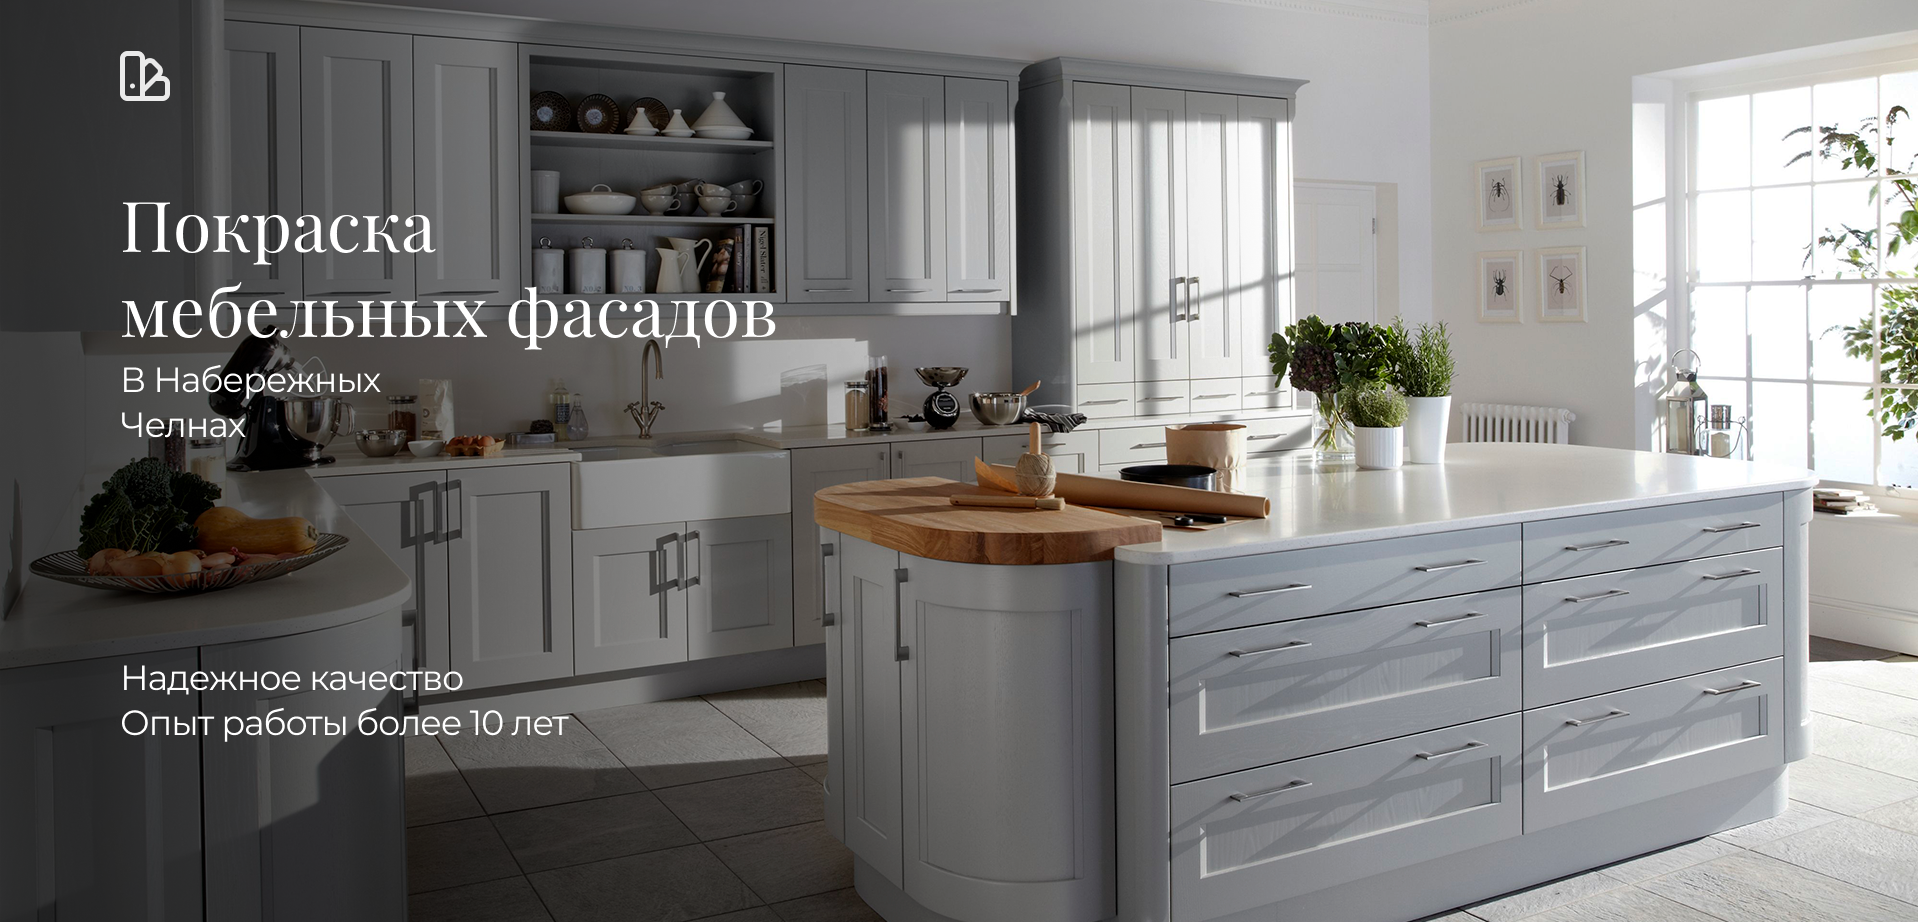
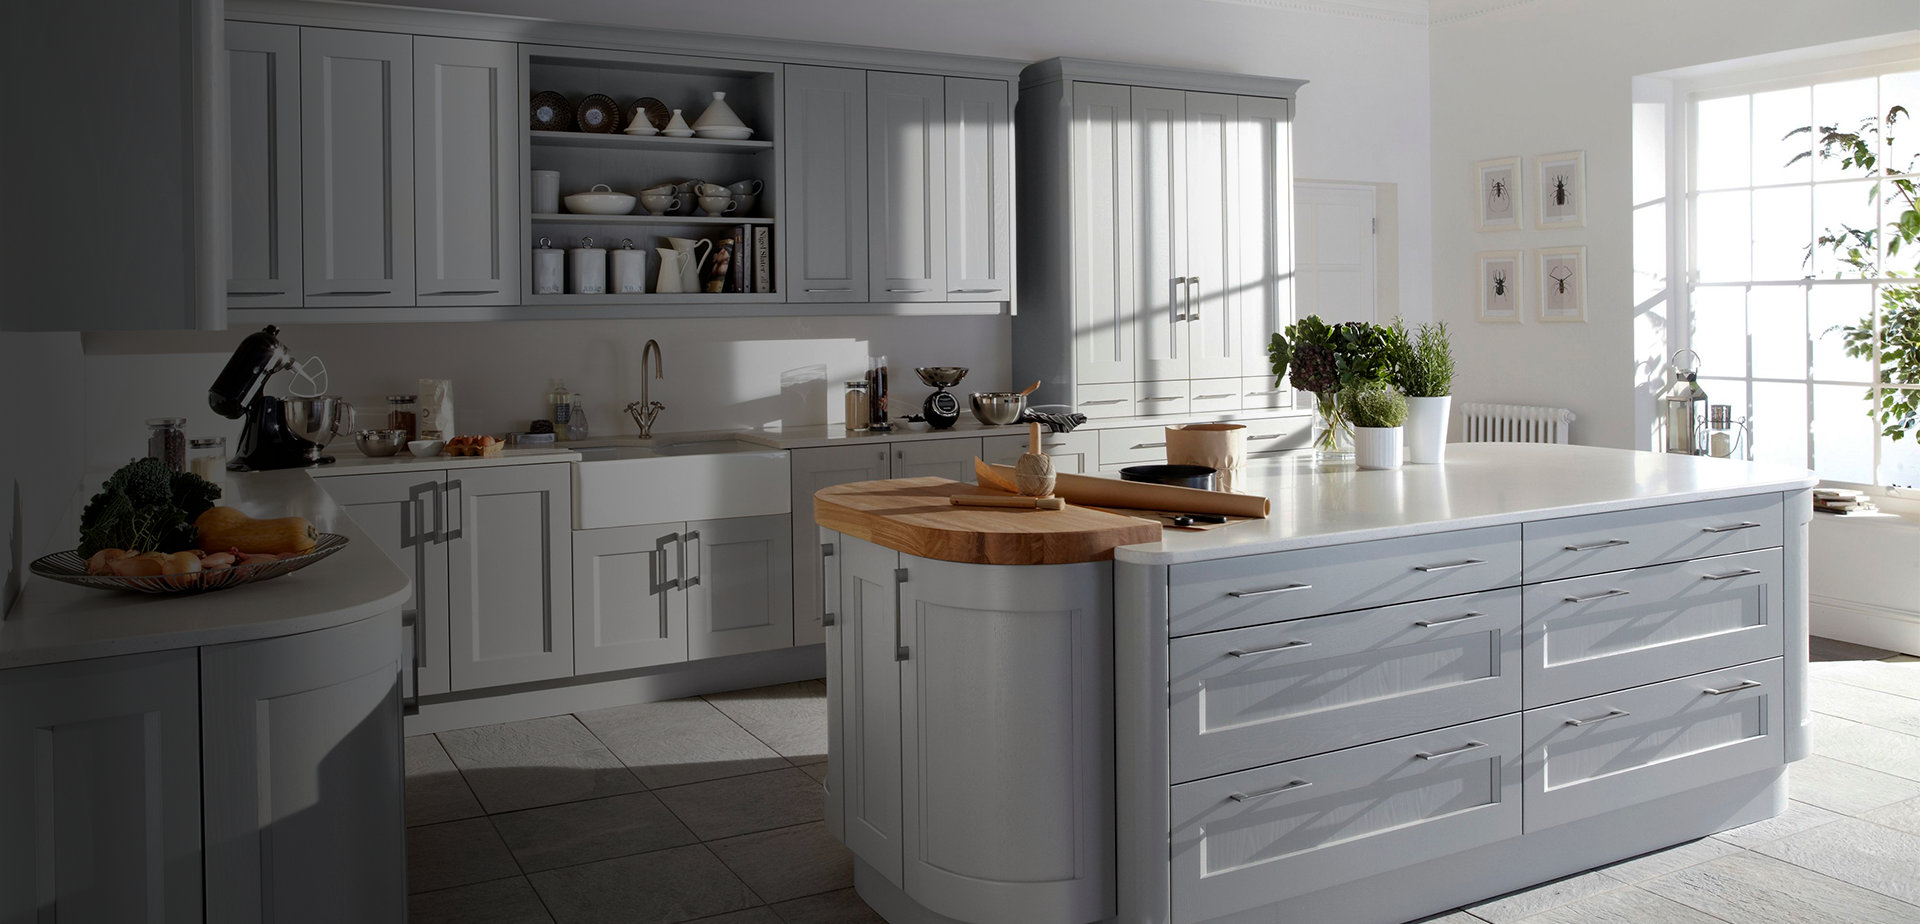
[HeaderImage] v-img wrap problem

diff --git a/src/components/HeaderImage.vue b/src/components/HeaderImage.vue
@@ -2,25 +2,73 @@
   <div v-frag>
     <v-img
       :src="require('/src/assets/images/headerImage.png')"
-      class="hidden-sm-and-down"
-      contain
-      eager
-    />
-    <v-img
-      :src="require('/src/assets/images/headerImageForSmAndDown.png')"
-      class="hidden-md-and-up"
-      contain
-      eager
-    />
+      min-height="922"
+      max-height="922"
+    >
+      <v-row
+        justify="center"
+        align="center"
+      >
+        <v-col
+          class="text-left"
+          cols="11"
+        >
+          <h1 class="subheading text">
+            Покраска <br> мебельных фасадов
+          </h1>
+          <h1 class="text-h4 font-weight-light text">
+            В Набережных <br> Челнах
+          </h1>
+          <h1 class="text-h4 font-weight-light quality text">
+            Надежное качество <br>
+            Опыт работы более 10 лет
+          </h1>
+        </v-col>
+      </v-row>
+    </v-img>
   </div>
 </template>
 
 <script lang="ts">
 import Vue from 'vue';
 export default Vue.extend({
-  //
+  computed: {
+    TextSize() {
+      switch (this.$vuetify.breakpoint.name) {
+        case 'xs':
+          return '5em';
+        case 'sm':
+          return '5em';
+        case 'md':
+          return '5em';
+        case 'lg':
+          return '10em';
+        case 'xl':
+          return '10em';
+      }
+    },
+  },
 });
 </script>
 
 <style scoped>
+.subheading {
+  font-family: Playfair Display;
+  font-style: normal;
+  font-weight: normal;
+  line-height: 1.1em;
+}
+.quality {
+  margin-top: 6em;
+}
+.text-left {
+  margin-top: 5em;
+}
+.text {
+  color: rgba(255, 253, 253, 0.897);
+  font-size: 5em;
+}
+.v-img {
+
+}
 </style>

diff --git a/src/components/global/AppBar.vue b/src/components/global/AppBar.vue
@@ -2,22 +2,25 @@
   <v-card class="overflow-hidden">
     <v-app-bar
       color="transparent"
+      hide-on-scroll
       :height="AppBarHeight"
       flat
       app
     >
-      <v-container
-        justify="end"
-      >
+    <v-row align="start" justify="start">
+      <v-col cols="sm-4 md-4 lg-3 xl-3">
+      <v-img
+      :src="require('/src/assets/icons/paliteicon.png')"
+      :height="IconHeight"
+      contain
+    />
+    </v-col>
+    </v-row>
           <v-spacer />
-          <v-row
-          justify="end">
           <HeaderButton
             :buttons="buttons"
             :height="IconHeight"
           />
-          </v-row>
-      </v-container>
     </v-app-bar>
   </v-card>
 </template>
@@ -73,11 +76,15 @@ export default Vue.extend({
         case 'md':
           return '85%';
         case 'lg':
-          return '85%';
+          return '110%';
         case 'xl':
-          return '85%';
+          return '120%';
       }
     },
   },
 });
 </script>
+
+<style scoped>
+
+</style>
